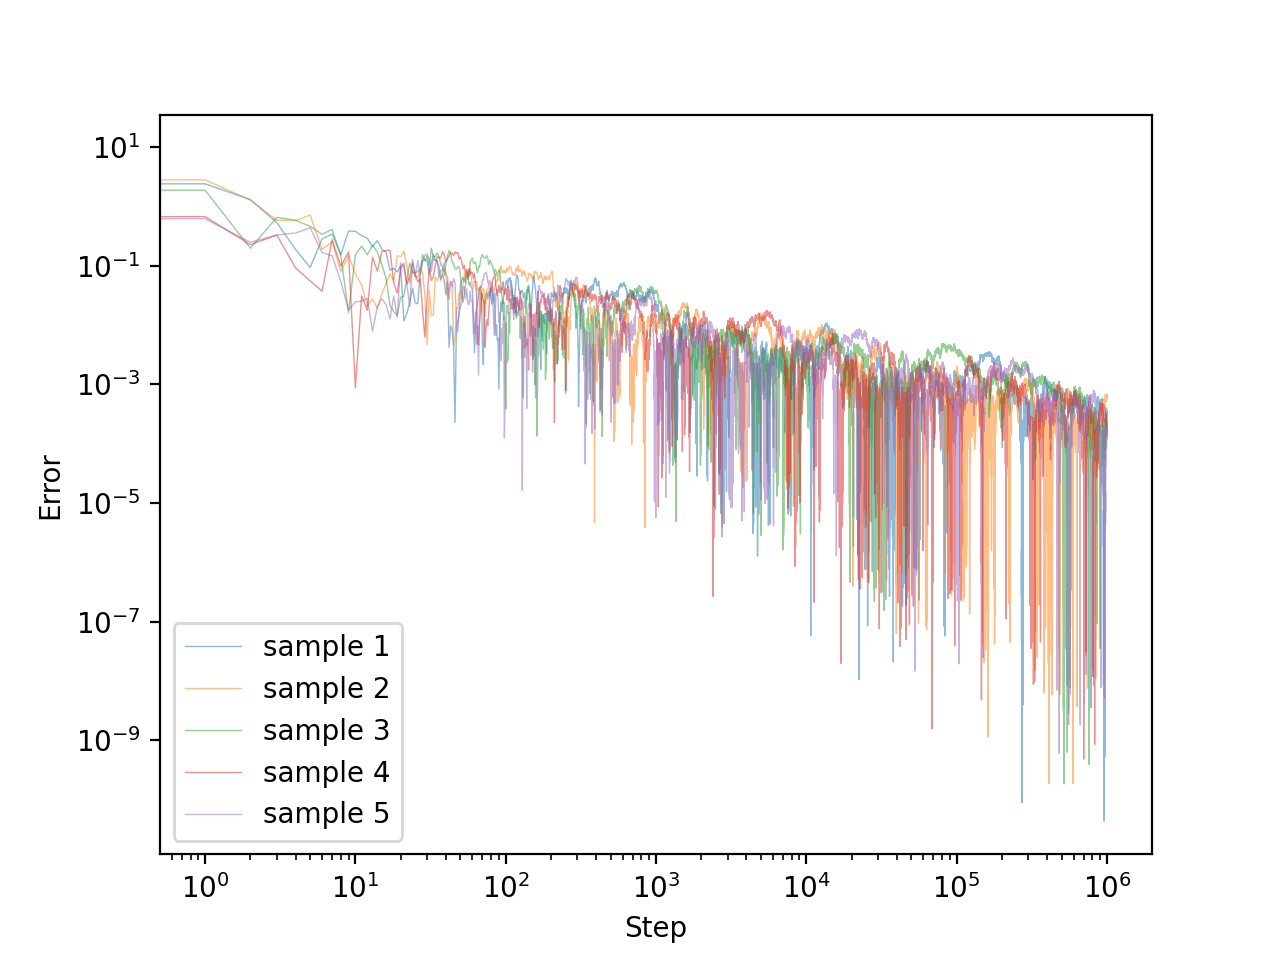
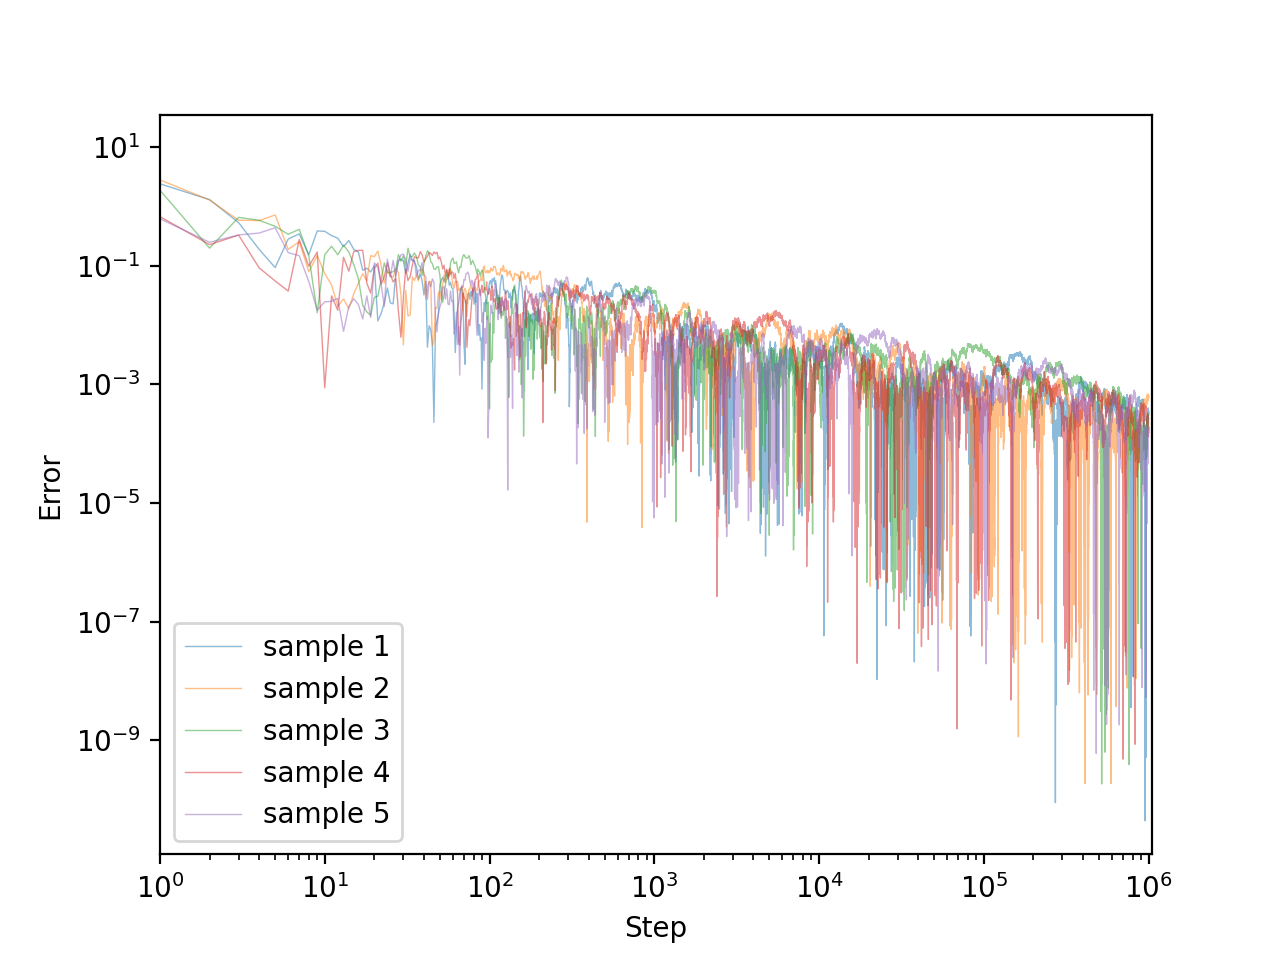
minor fix

diff --git a/robbins-monro/run.py b/robbins-monro/run.py
@@ -7,8 +7,8 @@ import numpy as np
 
 ################# Manual setup ##################
 
-target_value = 0.0
-true_solution = 0.0
+target_value = 0.0   # α
+true_solution = 0.0  # θ
 
 
 def true_func(x: float) -> float:
@@ -29,13 +29,13 @@ def observe(x: float) -> float:
 def robbins_monro(n_steps: int, step_coef: float, step_power: float) -> list[float]:
     """
     Compute a sample path until `n_steps` steps by the Robbins-Monro algorithm.
-    The n-th step size a_n is defined by a_n = c / n^e. where c = `step_coef` and e = `step_power`.
+    The n-th step size a_n is defined by a_n = c / n^p, where c = `step_coef` and p = `step_power`.
     """
     x = np.random.uniform(low=-10.0, high=10.0)
     path = [x]
-    for i in range(n_steps):
+    for i in range(1, n_steps):
+        a = step_coef / i**step_power
         y = observe(x)
-        a = step_coef / (i + 1)**step_power
         x += a * (target_value - y)
         path.append(x)
     return path

diff --git a/plot.py b/plot.py
@@ -34,6 +34,7 @@ def main() -> None:
         ys = [float(row['error']) for row in rows]
         plt.plot(xs, ys, linewidth=0.5, alpha=alpha, label=f'sample {i+1}')
 
+    plt.xlim(left=1)
     plt.xlabel('Step')
     plt.ylabel('Error')
     plt.xscale('log')

diff --git a/robbins-monro/README.md b/robbins-monro/README.md
@@ -24,7 +24,7 @@ We assume the following.
 1. $M(x)<\alpha$ for $x<\theta$,&nbsp; $M(x)>\alpha$ for $x>\theta$.
 1. $\displaystyle\inf_{\varepsilon\le|x-\theta|\le1/\varepsilon}|M(x)-\alpha|>0$ for $\varepsilon>0$.
 
-Let $(a_n)_{n=1}^\infty$ be a sequence of positive numbers such that
+Let $(a_n)_{n=1}^\infty$ be a sequence of positive numbers satisfying
 
 ```math
 \sum_{n=1}^\infty a_n = \infty\quad\text{and}\quad\sum_{n=1}^\infty a_n^2<\infty.
@@ -38,6 +38,8 @@ x_{n+1} = x_n + a_n(\alpha - y_n),
 
 where $y_n$ is a random variable distributed according to $H(\cdot\mid x_n)$.
 Then, Blum (1954) proved that $x_n\overset{\textrm{a.s.}}{\longrightarrow}\theta$ as $n\to\infty$.
+
+Note that we actually find $\theta$ which satisfies assumption 3, and hence we don't need to assume $M(\theta)=\alpha$.
 
 ## Experiments
 Set $M(x)=x+2\sin x$ and $H(\cdot\mid x)=\mathcal{N}(M(x),1)$ (the normal distribution of mean $M(x)$ and variance $1$). Here is the graph of $M(x)$.
@@ -53,10 +55,10 @@ All assumptions stated above are satisfied.
 $5$ sample paths until $n=10^6$ are plotted. Here, the $x$-axis represents $n$ and the $y$-axis respresents $|x_n-\theta|$.
 ```bash
 for i in {0..4}; do
-    python run.py 1000000 outputs/${i}.csv --step-power 1 --seed ${i}
+    python run.py 1000000 outputs/${i}.csv --seed ${i}
 done
 python ../plot.py outputs/0.csv outputs/1.csv outputs/2.csv outputs/3.csv outputs/4.csv \
-               -o ../resource/0.png --alpha 0.5
+                  -o ../resource/0.png --alpha 0.5
 ```
 <div align="center">
     <img src="../resource/0.png" width="50%">
@@ -72,7 +74,7 @@ for i in {0..4}; do
     python run.py 1000000 outputs/${i}.csv --step-power 1.5 --seed ${i}
 done
 python ../plot.py outputs/0.csv outputs/1.csv outputs/2.csv outputs/3.csv outputs/4.csv \
-               -o ../resource/1.png --alpha 1.0
+                  -o ../resource/1.png --alpha 1.0
 ```
 <div align="center">
     <img src="../resource/1.png" width="50%">
@@ -88,7 +90,7 @@ for i in {0..4}; do
     python run.py 1000000 outputs/${i}.csv --step-power 0.5 --seed ${i}
 done
 python ../plot.py outputs/0.csv outputs/1.csv outputs/2.csv outputs/3.csv outputs/4.csv \
-               -o ../resource/2.png --alpha 0.5
+                  -o ../resource/2.png --alpha 0.5
 ```
 <div align="center">
     <img src="../resource/2.png" width="50%">
@@ -100,13 +102,13 @@ Each sample path may converge to $\theta$ but the convergence speed is significa
 Assumption 1 does not hold.
 
 ```bash
-sed -i '' 's/x + 2.0 \* np.sin(x)/x ** 3 + 2.0 \* np.sin(x)/g' run.py
+sed -i '' 's/x + 2.0 \* np.sin(x)/x \*\* 3 + 2.0 \* np.sin(x)/g' run.py
 for i in {0..4}; do
-    python run.py 1000000 outputs/${i}.csv --step-power 1 --seed ${i}
+    python run.py 10000 outputs/${i}.csv --seed ${i}
 done
-sed -i '' 's/x ** 3 + 2.0 \* np.sin(x)/x + 2.0 \* np.sin(x)/g' run.py
+sed -i '' 's/x \*\* 3 + 2.0 \* np.sin(x)/x + 2.0 \* np.sin(x)/g' run.py
 python ../plot.py outputs/0.csv outputs/1.csv outputs/2.csv outputs/3.csv outputs/4.csv \
-               -o ../resource/3.png --alpha 1.0
+                  -o ../resource/3.png --alpha 1.0
 ```
 <div align="center">
     <img src="../resource/3.png" width="50%">
@@ -124,14 +126,14 @@ In fact, $M(x)$ has multiple zeros as shown in the following graph.
 ```bash
 sed -i '' 's/x + 2.0 \* np.sin(x)/x + 7.0 \* np.sin(x)/g' run.py
 for i in {0..4}; do
-    python run.py 1000000 outputs/${i}.csv --step-power 1 --seed ${i}
+    python run.py 1000000 outputs/${i}.csv --seed ${i}
 done
 sed -i '' 's/x + 7.0 \* np.sin(x)/x + 2.0 \* np.sin(x)/g' run.py
 python ../plot.py outputs/0.csv outputs/1.csv outputs/2.csv outputs/3.csv outputs/4.csv \
-               -o ../resource/4.png --alpha 0.5
+                  -o ../resource/4.png --alpha 0.5
 ```
 <div align="center">
     <img src="../resource/4.png" width="50%">
 </div>
 
-Some sample path converged to other zero of $M$.
+Some sample path converged to one of the other zero of $M$.
